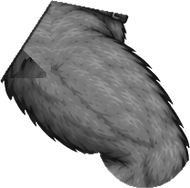
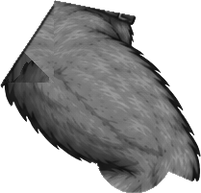
Beta: neue Figur – ganzes Bein je Stellung, Übungen korrigiert (#65)
* Beta: Pausen-Bildschirm im Gym mit Zielpause pro Übung

- Nach jedem Satz grosser Pausen-Bildschirm: Pausenzeit mit Ring bis zur
  empfohlenen Pause (Standard 2 min), danach grün „Bereit“ und kurze
  Vibration; darunter was als Nächstes kommt (Übung, Satz, eben/letztes
  Mal) und ein grosser Knopf
- Zielpause mit −15/+15 s pro Übung einstellbar, im Konto gespeichert
- Supersatz: zwischen A und B kein Pausen-Bildschirm, in der Leiste Satz
  und Vorschlag; nach der Runde Pause mit der ganzen nächsten Runde,
  Zielpause = längste der Gruppe
- Wegwischen/Zurück blendet aus, Pausenuhr in der Leiste antippen holt ihn
  zurück; „Übung wechseln“ führt zur Übungsauswahl

Claude-Session: https://claude.ai/code/session_01RzgDZiCUCCWMjrRSUqxzer

* Haupt-App: Supersätze und Pausen-Bildschirm aus der Beta übernehmen

Übernahme mit tools/promote-beta.sh (Supersätze in Plan und Freestyle,
Pausen-Bildschirm mit Zielpause pro Übung).

Claude-Session: https://claude.ai/code/session_01RzgDZiCUCCWMjrRSUqxzer

* Beta: neue Faultier-Figur (v2) hinter Schalter im Konto (Zwischenstand)

Teile aus ganzen Zeichnungen geschnitten (tools/sloth-rig/build_v2.py),
Standard bleibt die klassische Figur. Seitenansicht: Rumpf wartet noch
auf eine Zeichnung ohne Arm vor der Brust.

Claude-Session: https://claude.ai/code/session_01RzgDZiCUCCWMjrRSUqxzer

* Beta: Seitenansicht der neuen Figur mit eigenem Rumpf ohne Arme

Die Brust kommt jetzt aus side_torso.jpg (kein Arm davor), keine
[…]

diff --git a/beta/sloth-rig.js b/beta/sloth-rig.js
@@ -18,7 +18,7 @@ const slothPartHref = (im) => (im.startsWith('v2') ? SLOTH_RIG2_BASE : SLOTH_RIG
 const SLOTH_PARTS = {"front_head":[510,53,696,293],"front_torso":[456,248,745,582],"front_uarm_l":[296,251,478,388],"front_uarm_r":[723,251,904,388],"front_farm_l":[51,288,294,400],"front_farm_r":[907,288,1150,400],"front_thigh_l":[439,516,582,697],"front_thigh_r":[629,516,773,697],"front_tail":[566,584,643,725],"front_calf_l":[444,678,569,866],"front_calf_r":[643,679,768,866],"back_head":[510,53,696,293],"back_torso":[455,247,745,622],"back_uarm_l":[300,251,478,388],"back_uarm_r":[723,251,900,388],"back_farm_l":[163,288,294,396],"back_farm_r":[906,288,1039,396],"back_elbow_l":[267,315,319,367],"back_elbow_r":[881,314,934,367],"back_grip_l":[195,606,314,813],"back_grip_r":[899,606,1018,813],"back_thigh_l":[439,567,571,697],"back_thigh_r":[641,562,773,697],"back_tail":[566,619,643,741],"back_calf_l":[444,678,569,866],"back_calf_r":[643,678,768,866],"pose_russian_a":[209,33,499,221],"pose_russian_b":[679,29,968,221],"pose_ninety":[339,246,498,434],"pose_frog_a":[252,454,543,618],"pose_frog_b":[697,485,1018,614],"pose_extrot_a":[405,634,537,875],"pose_extrot_b":[633,634,817,876],"eq_plate":[570,40,688,159],"eq_kettlebell":[870,40,962,159],"eq_dumbbell":[184,51,365,151],"eq_dhandle":[178,193,273,328],"eq_rope":[515,183,622,331],"eq_ring":[866,182,955,336],"eq_barend":[66,379,285,434],"eq_bench":[326,418,558,499],"eq_incline":[604,353,821,499],"eq_decline":[887,404,1118,499],"eq_cable":[92,506,252,840],"eq_dipstation":[436,631,630,840],"eq_rack":[890,553,1108,840],"eq_latpull":[68,33,226,248],"eq_legpress":[312,68,575,239],"eq_legext":[657,67,851,241],"eq_legcurl":[917,67,1143,241],"eq_butterfly":[69,324,232,543],"eq_abduction":[362,329,510,543],"eq_calfseated":[657,417,844,543],"eq_calfstanding":[931,326,1134,541],"eq_hyperext":[71,688,280,839],"eq_pullover":[465,604,649,840],"eq_tbar":[877,653,1112,840],"eq_abwheel":[181,58,443,250],"eq_jumprope":[776,42,989,261],"eq_ladder":[93,361,534,514],"eq_stepbox":[748,354,1035,538],"eq_band":[93,682,531,759],"eq_mat":[627,666,1152,759],"eq_stack":[303,516,390,652],"eq_calfframe":[499,491,711,666],"eq_calfpad":[807,531,920,627],"eq_dipbars":[292,735,461,819],"eq_nordic":[535,711,724,819],"eq_abductseat":[1008,654,1141,819],"eq_edge":[818,753,954,823],"front_face_neutral":[106,22,253,213],"front_face_effort":[106,22,251,213],"front_face_blink":[106,22,253,213],"front_face_yawn":[106,22,253,213],"side_face_neutral":[104,40,335,317],"side_face_effort":[103,40,334,317],"side_face_blink":[104,40,332,317],"side_torso":[458,53,699,568],"side_body":[458,220,692,568],"side_tail":[372,453,473,535],"side_uarm":[791,80,910,268],"side_uarm_far":[791,80,910,268],"side_elbow":[811,261,857,307],"side_elbow_far":[811,261,857,307],"side_farm":[770,320,959,400],"side_farm_far":[770,320,959,400],"side_hand":[990,449,1166,539],"side_hand_far":[990,449,1166,539],"side_thigh":[629,516,773,687],"side_thigh_far":[629,516,773,687],"side_knee":[721,652,768,700],"side_knee_far":[721,652,768,700],"side_calf":[1020,689,1180,854],"side_calf_far":[1020,689,1180,854],"side_shin":[1020,689,1122,793],"side_shin_far":[1020,689,1122,793],"side_fist":[59,109,404,284],"side_fist_far":[59,109,404,284],"side_foot":[152,622,370,804],"side_foot_far":[152,622,370,804],"side_flat":[624,706,893,825],"side_flat_far":[624,706,893,825]};
 /* PARTS:END */
 /* V2:BEGIN */
-const SLOTH_V2 = {"parts":{"v2front_torso":[149,183,351,481],"v2front_head":[173,15,331,198],"v2front_uarm_l":[86,206,200,366],"v2front_farm_l":[12,322,139,516],"v2front_farmfist_l":[16,322,138,468],"v2front_thigh_l":[142,400,251,584],"v2front_calf_l":[80,546,224,758],"v2front_uarm_r":[300,206,418,364],"v2front_farm_r":[365,322,497,516],"v2front_farmfist_r":[370,322,494,468],"v2front_thigh_r":[252,400,365,584],"v2front_calf_r":[284,546,428,758],"v2back_torso":[149,182,351,466],"v2back_head":[174,12,338,201],"v2back_uarm_l":[79,204,201,371],"v2back_farm_l":[30,326,142,440],"v2back_grip_l":[12,412,86,518],"v2back_thigh_l":[143,398,252,586],"v2back_calf_l":[78,546,224,753],"v2back_uarm_r":[300,204,429,367],"v2back_farm_r":[370,326,478,438],"v2back_grip_r":[426,412,499,518],"v2back_thigh_r":[250,397,370,585],"v2back_calf_r":[285,546,430,753],"v2hang_torso":[164,216,346,464],"v2hang_head":[196,120,317,263],"v2hang_uarm_l":[126,136,213,334],"v2hang_farm_l":[122,50,192,164],"v2hang_grip_l":[120,13,198,74],"v2hang_thigh_l":[152,400,261,581],"v2hang_calf_l":[136,540,235,754],"v2hang_uarm_r":[297,136,387,348],"v2hang_farm_r":[321,52,391,164],"v2hang_grip_r":[316,13,392,74],"v2hang_thigh_r":[250,400,360,582],"v2hang_calf_r":[277,540,376,754],"v2sit_torso":[153,184,361,403],"v2sit_head":[176,22,337,196],"v2sit_uarm_l":[78,215,181,389],"v2sit_farm_l":[49,352,150,539],"v2sit_thigh_l":[136,377,258,491],"v2sit_calf_l":[100,453,244,750],"v2sit_uarm_r":[330,216,435,389],"v2sit_farm_r":[362,352,464,539],"v2sit_thigh_r":[254,377,376,489],"v2sit_calf_r":[268,453,412,750],"v2side_torso":[30,238,263,592],"v2side_face":[92,11,254,191],"v2side_uarm":[157,180,325,270],"v2side_farm":[296,184,442,266],"v2side_hand":[422,190,496,238],"v2side_fist":[296,184,496,266],"v2side_flat":[422,190,496,238],"v2side_uarm_far":[157,180,325,270],"v2side_farm_far":[296,184,442,266],"v2side_hand_far":[422,190,496,238],"v2side_fist_far":[296,184,496,266],"v2side_flat_far":[422,190,496,238],"v2side_thigh":[84,498,226,712],"v2side_thigh_far":[84,498,226,712],"v2side_calf":[81,672,276,906],"v2side_calf_far":[81,672,276,906],"v2side_shin":[81,672,208,903],"v2side_shin_far":[81,672,208,903],"v2side_foot":[127,815,275,905],"v2side_foot_far":[127,815,275,905],"v2side_thighA":[394,534,584,722],"v2side_thighA_far":[394,534,584,722],"v2side_thighB":[691,567,927,732],"v2side_thighB_far":[691,567,927,732],"v2side_thighC":[1023,609,1308,753],"v2side_thighC_far":[1023,609,1308,753]},"joints":{"front":{"torso":[[250.0,445.0],[250.0,185.0]],"head":[[250.0,185.0],[250.0,20.0]],"farm_l":[[102.5,345.0],[40.0,495.0]],"uarm_l":[[165.0,240.0],[102.5,345.0]],"thigh_l":[[210.0,445.0],[180.0,575.0]],"calf_l":[[180.0,575.0],[155.0,695.0]],"farm_r":[[397.5,345.0],[462.5,495.0]],"uarm_r":[[335.0,240.0],[397.5,345.0]],"thigh_r":[[290.0,445.0],[320.0,575.0]],"calf_r":[[320.0,575.0],[345.0,695.0]]},"back":{"torso":[[250.0,445.0],[250.0,190.0]],"head":[[250.0,190.0],[250.0,15.0]],"grip_l":[[57.5,430.0],[42.5,500.0]],"farm_l":[[102.5,350.0],[57.5,430.0]],"uarm_l":[[165.0,240.0],[102.5,350.0]],"thigh_l":[[210.0,445.0],[180.0,575.0]],"calf_l":[[180.0,575.0],[155.0,695.0]],"grip_r":[[445.0,430.0],[465.0,500.0]],"farm_r":[[400.0,350.0],[445.0,430.0]],"uarm_r":[[335.0,240.0],[400.0,350.0]],"thigh_r":[[290.0,445.0],[325.0,575.0]],"calf_r":[[325.0,575.0],[350.0,695.0]]},"hang":{"torso":[[255.0,465.0],[255.0,235.0]],"head":[[255.0,235.0],[255.0,120.0]],"grip_l":[[152.5,55.0],[157.5,25.0]],"farm_l":[[150.0,140.0],[152.5,55.0]],"uarm_l":[[177.5,255.0],[150.0,140.0]],"thigh_l":[[222.5,465.0],[187.5,570.0]],"calf_l":[[187.5,570.0],[172.5,700.0]],"grip_r":[[355.0,55.0],[352.5,25.0]],"farm_r":[[357.5,140.0],[355.0,55.0]],"uarm_r":[[332.5,255.0],[357.5,140.0]],"thigh_r":[[287.5,465.0],[322.5,570.0]],"calf_r":[[322.5,570.0],[340.0,700.0]]},"sit":{"torso":[[255.0,415.0],[255.0,190.0]],"head":[[255.0,190.0],[255.0,25.0]],"farm_l":[[105.0,375.0],[75.0,525.0]],"uarm_l":[[145.0,257.5],[105.0,375.0]],"thigh_l":[[190.0,415.0],[192.5,482.5]],"calf_l":[[192.5,482.5],[169.0,660.0]],"farm_r":[[405.0,375.0],[435.0,525.0]],"uarm_r":[[365.0,257.5],[405.0,375.0]],"thigh_r":[[320.0,415.0],[320.0,482.5]],"calf_r":[[320.0,482.5],[340.0,660.0]]},"side":{"torso":[[159.2,546.0],[163.8,327.6]],"face":[[200.0,170.0],[165.0,30.0]],"flex":{"thigh":8.3,"thighA":54.6,"thighB":88.5,"thighC":111.2},"thighA":[[441.4,591.5],[538.7,675.2]],"thighB":[[728.0,637.0],[873.6,684.3]],"thighC":[[1078.4,678.0],[1269.5,680.7]],"uarm":[[200.0,222.5],[320.0,225.0]],"farm":[[320.0,225.0],[440.0,212.5]],"fist":[[320.0,225.0],[440.0,212.5]],"hand":[[440.0,212.5],[492.5,215.0]],"flat":[[440.0,212.5],[492.5,215.0]],"thigh":[[159.2,559.6],[177.5,705.2]],"calf":[[177.5,705.2],[159.2,841.8]],"shin":[[177.5,705.2],[159.2,841.8]],"foot":[[159.2,841.8],[245.7,887.2]]}},"anchors":{"front":{"neck":[250.0,185.0],"sh_l":[165.0,240.0],"sh_r":[335.0,240.0],"hip_l":[210.0,445.0],"hip_r":[290.0,445.0],"tail":[250.0,445.0]},"back":{"neck":[250.0,190.0],"sh_l":[165.0,240.0],"sh_r":[335.0,240.0],"hip_l":[210.0,445.0],"hip_r":[290.0,445.0],"tail":[250.0,445.0]},"hang":{"neck":[255.0,235.0],"sh_l":[177.5,255.0],"sh_r":[332.5,255.0],"hip_l":[222.5,465.0],"hip_r":[287.5,465.0],"tail":[255.0,465.0]},"sit":{"neck":[255.0,190.0],"sh_l":[145.0,257.5],"sh_r":[365.0,257.5],"hip_l":[190.0,415.0],"hip_r":[320.0,415.0],"tail":[255.0,415.0]},"side":{"shoulder":[163.8,327.6],"hip":[159.2,546.0],"tail":[54.6,591.5],"face":[186.6,265.7]}}};
+const SLOTH_V2 = {"parts":{"v2front_torso":[149,183,351,481],"v2front_head":[173,15,331,198],"v2front_uarm_l":[86,206,200,366],"v2front_farm_l":[12,322,139,516],"v2front_farmfist_l":[16,322,138,468],"v2front_thigh_l":[142,400,251,584],"v2front_calf_l":[80,546,224,758],"v2front_uarm_r":[300,206,418,364],"v2front_farm_r":[365,322,497,516],"v2front_farmfist_r":[370,322,494,468],"v2front_thigh_r":[252,400,365,584],"v2front_calf_r":[284,546,428,758],"v2back_torso":[149,182,351,466],"v2back_head":[174,12,338,201],"v2back_uarm_l":[79,204,201,371],"v2back_farm_l":[30,326,142,440],"v2back_grip_l":[12,412,86,518],"v2back_thigh_l":[143,398,252,586],"v2back_calf_l":[78,546,224,753],"v2back_uarm_r":[300,204,429,367],"v2back_farm_r":[370,326,478,438],"v2back_grip_r":[426,412,499,518],"v2back_thigh_r":[250,397,370,585],"v2back_calf_r":[285,546,430,753],"v2hang_torso":[164,216,346,464],"v2hang_head":[196,120,317,263],"v2hang_uarm_l":[126,136,213,334],"v2hang_farm_l":[122,50,192,164],"v2hang_grip_l":[120,13,198,74],"v2hang_thigh_l":[152,400,261,581],"v2hang_calf_l":[136,540,235,754],"v2hang_uarm_r":[297,136,387,348],"v2hang_farm_r":[321,52,391,164],"v2hang_grip_r":[316,13,392,74],"v2hang_thigh_r":[250,400,360,582],"v2hang_calf_r":[277,540,376,754],"v2sit_torso":[153,184,361,403],"v2sit_head":[176,22,337,196],"v2sit_uarm_l":[78,215,181,389],"v2sit_farm_l":[49,352,150,539],"v2sit_thigh_l":[136,377,258,491],"v2sit_calf_l":[100,453,244,750],"v2sit_uarm_r":[330,216,435,389],"v2sit_farm_r":[362,352,464,539],"v2sit_thigh_r":[254,377,376,489],"v2sit_calf_r":[268,453,412,750],"v2side_torso":[30,238,263,592],"v2side_face":[92,11,254,191],"v2side_uarm":[157,180,325,270],"v2side_farm":[296,184,442,266],"v2side_hand":[422,190,496,238],"v2side_fist":[296,184,496,266],"v2side_flat":[422,190,496,238],"v2side_uarm_far":[157,180,325,270],"v2side_farm_far":[296,184,442,266],"v2side_hand_far":[422,190,496,238],"v2side_fist_far":[296,184,496,266],"v2side_flat_far":[422,190,496,238],"v2side_thigh":[84,497,226,704],"v2side_thigh_far":[84,497,226,704],"v2side_calf":[82,678,279,915],"v2side_calf_far":[82,678,279,915],"v2side_shin":[82,678,212,913],"v2side_shin_far":[82,678,212,913],"v2side_foot":[125,825,279,915],"v2side_foot_far":[125,825,279,915],"v2side_thighA":[416,565,617,758],"v2side_thighA_far":[416,565,617,758],"v2side_calfA":[365,600,534,831],"v2side_calfA_far":[365,600,534,831],"v2side_thighB":[772,633,1035,811],"v2side_thighB_far":[772,633,1035,811],"v2side_calfB":[680,624,863,852],"v2side_calfB_far":[680,624,863,852],"v2side_thighC":[1155,687,1477,848],"v2side_thighC_far":[1155,687,1477,848],"v2side_calfC":[915,561,1099,767],"v2side_calfC_far":[915,561,1099,767]},"joints":{"front":{"torso":[[250.0,445.0],[250.0,185.0]],"head":[[250.0,185.0],[250.0,20.0]],"farm_l":[[102.5,345.0],[40.0,495.0]],"uarm_l":[[165.0,240.0],[102.5,345.0]],"thigh_l":[[210.0,445.0],[180.0,575.0]],"calf_l":[[180.0,575.0],[155.0,695.0]],"farm_r":[[397.5,345.0],[462.5,495.0]],"uarm_r":[[335.0,240.0],[397.5,345.0]],"thigh_r":[[290.0,445.0],[320.0,575.0]],"calf_r":[[320.0,575.0],[345.0,695.0]]},"back":{"torso":[[250.0,445.0],[250.0,190.0]],"head":[[250.0,190.0],[250.0,15.0]],"grip_l":[[57.5,430.0],[42.5,500.0]],"farm_l":[[102.5,350.0],[57.5,430.0]],"uarm_l":[[165.0,240.0],[102.5,350.0]],"thigh_l":[[210.0,445.0],[180.0,575.0]],"calf_l":[[180.0,575.0],[155.0,695.0]],"grip_r":[[445.0,430.0],[465.0,500.0]],"farm_r":[[400.0,350.0],[445.0,430.0]],"uarm_r":[[335.0,240.0],[400.0,350.0]],"thigh_r":[[290.0,445.0],[325.0,575.0]],"calf_r":[[325.0,575.0],[350.0,695.0]]},"hang":{"torso":[[255.0,465.0],[255.0,235.0]],"head":[[255.0,235.0],[255.0,120.0]],"grip_l":[[152.5,55.0],[157.5,25.0]],"farm_l":[[150.0,140.0],[152.5,55.0]],"uarm_l":[[177.5,255.0],[150.0,140.0]],"thigh_l":[[222.5,465.0],[187.5,570.0]],"calf_l":[[187.5,570.0],[172.5,700.0]],"grip_r":[[355.0,55.0],[352.5,25.0]],"farm_r":[[357.5,140.0],[355.0,55.0]],"uarm_r":[[332.5,255.0],[357.5,140.0]],"thigh_r":[[287.5,465.0],[322.5,570.0]],"calf_r":[[322.5,570.0],[340.0,700.0]]},"sit":{"torso":[[255.0,415.0],[255.0,190.0]],"head":[[255.0,190.0],[255.0,25.0]],"farm_l":[[105.0,375.0],[75.0,525.0]],"uarm_l":[[145.0,257.5],[105.0,375.0]],"thigh_l":[[190.0,415.0],[192.5,482.5]],"calf_l":[[192.5,482.5],[169.0,660.0]],"farm_r":[[405.0,375.0],[435.0,525.0]],"uarm_r":[[365.0,257.5],[405.0,375.0]],"thigh_r":[[320.0,415.0],[320.0,482.5]],"calf_r":[[320.0,482.5],[340.0,660.0]]},"side":{"torso":[[159.2,546.0],[163.8,327.6]],"face":[[200.0,170.0],[165.0,30.0]],"flex":{"thigh":8.5,"thighA":48.7,"thighB":82.1,"thighC":105.0},"kneeBend":{"thigh":14.7,"thighA":66.5,"thighB":93.6,"thighC":118.7},"thighA":[[452.0,615.5],[550.1,719.4]],"calfA":[[478.7,626.1],[422.7,757.5]],"thighB":[[823.5,711.7],[953.6,770.6]],"calfB":[[805.3,650.8],[738.3,777.0]],"thighC":[[1265.9,758.3],[1407.7,775.8]],"calfC":[[1059.0,583.6],[975.5,699.5]],"uarm":[[200.0,222.5],[320.0,225.0]],"farm":[[320.0,225.0],[440.0,212.5]],"fist":[[320.0,225.0],[440.0,212.5]],"hand":[[440.0,212.5],[492.5,215.0]],"flat":[[440.0,212.5],[492.5,215.0]],"thigh":[[154.4,555.9],[172.6,697.6]],"calf":[[174.8,706.6],[156.4,848.2]],"shin":[[174.8,706.6],[156.4,848.2]],"foot":[[156.4,848.2],[248.4,894.2]]}},"anchors":{"front":{"neck":[250.0,185.0],"sh_l":[165.0,240.0],"sh_r":[335.0,240.0],"hip_l":[210.0,445.0],"hip_r":[290.0,445.0],"tail":[250.0,445.0]},"back":{"neck":[250.0,190.0],"sh_l":[165.0,240.0],"sh_r":[335.0,240.0],"hip_l":[210.0,445.0],"hip_r":[290.0,445.0],"tail":[250.0,445.0]},"hang":{"neck":[255.0,235.0],"sh_l":[177.5,255.0],"sh_r":[332.5,255.0],"hip_l":[222.5,465.0],"hip_r":[287.5,465.0],"tail":[255.0,465.0]},"sit":{"neck":[255.0,190.0],"sh_l":[145.0,257.5],"sh_r":[365.0,257.5],"hip_l":[190.0,415.0],"hip_r":[320.0,415.0],"tail":[255.0,415.0]},"side":{"shoulder":[163.8,327.6],"hip":[159.2,546.0],"tail":[54.6,591.5],"face":[186.6,265.7]}}};
 /* V2:END */
 
 // Gelenkpunkte in Vorlagen-Koordinaten (1200 x 896): [nah, fern]
@@ -248,7 +248,7 @@ const SLOTH_POSES = {
     b: { torso: -96, uarm: 96, farm: 92, thigh: 84, calf: 92, dy: -26 },
   },
   wallsit: {
-    view: 'side', pin: 'ankle', dur: 3.6, floor: 46, wall: { x: -300 }, label: 'Wall Sit',
+    view: 'side', pin: 'ankle', dur: 3.6, floor: 46, wall: { x: -300 }, drawnKnee: false, label: 'Wall Sit', // Schienbein bleibt senkrecht
     a: { torso: -90, uarm: 94, farm: 20, thigh: 2, calf: 92 },
     b: { torso: -90, uarm: 94, farm: 22, thigh: 2, calf: 92 },
   },
@@ -259,7 +259,8 @@ const SLOTH_POSES = {
   },
   wgs: {
     view: 'side', pin: 'ankle', dur: 3.2, floor: 46, grip: 'flat', label: 'Grösste Dehnung der Welt',
-    a: { torso: -26, uarm: 100, farm: 130, hand: 0, fuarm: 96, ffarm: 92, fhand: 0, thigh: 12, calf: 96, fthigh: 160, fcalf: 166 },
+    // Stützarm gerade nach unten neben den vorderen Fuss (Ellbogen nicht nach hinten durchgebogen)
+    a: { torso: -26, uarm: 88, farm: 84, hand: 0, fuarm: 96, ffarm: 92, fhand: 0, thigh: 12, calf: 96, fthigh: 160, fcalf: 166 },
     b: { torso: -26, uarm: -92, farm: -92, hand: -92, fuarm: 96, ffarm: 92, fhand: 0, thigh: 12, calf: 96, fthigh: 160, fcalf: 166 },
   },
   thoracic: {
@@ -311,10 +312,11 @@ const SLOTH_POSES = {
     b: { torso: -96, uarm: 100, farm: 60, fuarm: 100, ffarm: 60, thigh: 88, calf: 94, fthigh: 110, fcalf: 170, dy: -60 },
   },
   bounds: {
-    view: 'front', pin: 'feet', dur: 1.4, floor: 26, armLift: 45, relLegs: true, label: 'Seitsprünge',
-    // Arme mit gebeugten Ellbogen: gestreckt würden sie durch die Waagrechte schwingen und die Figur sehr breit machen
-    a: { torso: -80, head: -84, uarm_l: 125, farm_l: 60, uarm_r: 55, farm_r: 120, thigh_l: 104, calf_l: 94, thigh_r: 120, calf_r: 150, tail: 0 },
-    b: { torso: -100, head: -96, uarm_l: 165, farm_l: 250, uarm_r: 15, farm_r: -70, thigh_l: 60, calf_l: 30, thigh_r: 76, calf_r: 86, tail: 0 },
+    view: 'front', pin: 'feet', dur: 1.4, floor: 26, armLift: 45, label: 'Seitsprünge',
+    // Skater: seitlich von Bein zu Bein springen. Landung auf einem gebeugten Bein, das andere kreuzt schräg
+    // hinter dem Standbein, die Arme schwingen gegengleich zur Seite des Standbeins.
+    a: { torso: -96, head: -92, uarm_l: 96, farm_l: 100, uarm_r: 130, farm_r: 150, thigh_l: 100, calf_l: 86, thigh_r: 104, len_thigh_r: 0.8, calf_r: 112, len_calf_r: 0.85, dx: -70, tail: 0 },
+    b: { torso: -84, head: -88, uarm_l: 50, farm_l: 30, uarm_r: 84, farm_r: 80, thigh_r: 80, calf_r: 94, thigh_l: 76, len_thigh_l: 0.8, calf_l: 68, len_calf_l: 0.85, dx: 70, tail: 0 },
   },
   sprint: {
     view: 'side', pin: 'hip', dur: 0.6, floor: 205, label: 'Sprint',
@@ -338,8 +340,9 @@ const SLOTH_POSES = {
   },
   lateralLunge: {
     view: 'front', pin: 'feet', dur: 3, floor: 26, armLift: 45, label: 'Seitlicher Ausfallschritt',
-    a: { torso: -90, head: -90, uarm_l: 70, farm_l: 30, uarm_r: 110, farm_r: 150, thigh_l: 140, calf_l: 96, thigh_r: 50, calf_r: 52, tail: 0 },
-    b: { torso: -90, head: -90, uarm_l: 70, farm_l: 30, uarm_r: 110, farm_r: 150, thigh_l: 128, calf_l: 128, thigh_r: 40, calf_r: 84, tail: 0 },
+    // Arme hängen locker (Hände nicht an der Hüfte verdreht)
+    a: { torso: -90, head: -90, uarm_l: 104, farm_l: 98, uarm_r: 76, farm_r: 82, thigh_l: 140, calf_l: 96, thigh_r: 50, calf_r: 52, tail: 0 },
+    b: { torso: -90, head: -90, uarm_l: 108, farm_l: 100, uarm_r: 72, farm_r: 80, thigh_l: 128, calf_l: 128, thigh_r: 40, calf_r: 84, tail: 0 },
   },
   quadstretch: {
     view: 'side', pin: 'fankle', dur: 3.6, floor: 46, drawLast: ['calf', 'knee', 'farm', 'hand'], label: 'Oberschenkel-Dehnung',
@@ -698,7 +701,7 @@ const SLOTH_POSES = {
   },
   jumprope: {
     view: 'side', pin: 'ankle', dur: 0.6, floor: 46, grip: 'fist', label: 'Seilspringen',
-    props: [{ img: 'jumprope', at: 'grip', a: [882, 150], k: 2.6, layer: 'mid' }],
+    rope: true, // Seil als kreisende Linie um die Figur (siehe slothRigPrepare)
     a: { torso: -94, uarm: 100, farm: 20, thigh: 86, calf: 92, dy: 0 },
     b: { torso: -94, uarm: 100, farm: 30, thigh: 80, calf: 96, dy: -40 },
   },
@@ -922,22 +925,33 @@ function slothRigBuild(pose, v2 = false) {
         q.calf_far = place('calf', th.end, Math.atan2(cv[1], cv[0]) * 180 / Math.PI + (pose.farFoot[2] || 0), 'side_calf_far');
       }
     }
-    // v2: Gesäss + Oberschenkel gibt es gezeichnet stehend und in drei Beugungen (ein Blatt, gleiche Zeichnung).
-    // Je nach Hüftbeugung (Winkel Rumpf -> Oberschenkel) wird zur passenden Zeichnung übergeblendet, statt nur zu drehen.
-    if (sameLegs) for (const k of ['thigh_far', 'knee_far', 'calf_far', 'foot_far']) if (q[k]) q[k] = { skip: true, P: q[k].P, end: q[k].end };
+    // v2: das ganze Bein (Gesäss/Oberschenkel, Unterschenkel mit Fuss) gibt es gezeichnet stehend und in drei
+    // Beugungen aus einem Blatt. Je nach Hüftbeugung (Winkel Rumpf -> Oberschenkel) wird die passende Zeichnung
+    // gezeigt – hart umgeschaltet, damit nie zwei Beine durchscheinen. Alle Stellungen haben dieselben Längen.
     if (v2 && J.flex) for (const x of ['', '_far']) {
       const th = q['thigh' + x];
       if (!th || th.skip) continue;
       const [b0, b1] = J.thigh, deg = th.r + Math.atan2(b1[1] - b0[1], b1[0] - b0[0]) * 180 / Math.PI;
       const f = ((s.torso + 180 - deg) % 360 + 540) % 360 - 180, F = J.flex;
-      const ramp = (lo, hi) => { const u = Math.min(1, Math.max(0, (f - lo) / (hi - lo))); return u * u * (3 - 2 * u); };
-      // kurzer Übergang (±5°) in der Mitte zwischen zwei Zeichnungen; darunterliegende ausblenden, sobald die nächste deckt
       const ks = Object.keys(F).sort((m, n) => F[m] - F[n]);
-      const op = ks.map((k, i) => (i === 0 ? 1 : ramp((F[ks[i - 1]] + F[k]) / 2 - 5, (F[ks[i - 1]] + F[k]) / 2 + 5)));
+      let cur = 0;
+      ks.forEach((k, i) => { if (i && f > (F[ks[i - 1]] + F[k]) / 2) cur = i; });
+      // Füsse am Boden (fester Knöchel): Knie beugt so stark wie in den Zeichnungen (stetig nach Hüftbeugung) –
+      // so bleibt der Fuss flach und die Bewegung sieht aus wie gezeichnet
+      const planted = (x === '' && pose.pin === 'ankle') || (x === '_far' && pose.pin === 'fankle');
+      if (planted && !pose.feet && pose.drawnKnee !== false && J.kneeBend) {
+        const kbv = ks.map((k) => J.kneeBend[k]), fv = ks.map((k) => F[k]);
+        let rel = kbv[0];
+        for (let i = 1; i < ks.length; i++) if (f >= fv[i - 1]) rel = kbv[i - 1] + (kbv[i] - kbv[i - 1]) * Math.min(1, (f - fv[i - 1]) / (fv[i] - fv[i - 1]));
+        if (f < fv[0]) rel = kbv[0] * Math.max(0, f / fv[0]);
+        q['calf' + x] = place('calf', th.end, deg + rel, 'side_calf' + x);
+      }
+      const ca = q['calf' + x], cDeg = ca && !ca.skip ? ca.r + a0('calf') : null;
       ks.forEach((k, i) => {
-        const o = op[i + 1] >= 1 ? 0 : op[i];
-        if (k === 'thigh') th.o = o;
-        else q[k + x] = { ...place(k, th.P, deg, 'side_' + k + x), o };
+        const o = i === cur ? 1 : 0, sfx = k.slice(5); // '' | 'A' | 'B' | 'C'
+        if (!sfx) { th.o = o; if (!pose.feet && ca && !ca.skip) ca.o = o; return; }
+        q[k + x] = { ...place(k, th.P, deg, 'side_' + k + x), o };
+        if (!pose.feet && cDeg != null) q['calf' + sfx + x] = { ...place('calf' + sfx, th.end, cDeg, 'side_calf' + sfx + x), o };
       });
     }
     for (const k of pose.mirror || []) q[k].k = [q[k].k, -q[k].k]; // Teil an der Knochenachse spiegeln
@@ -969,7 +983,7 @@ function slothRigBuild(pose, v2 = false) {
         q['grip_' + x] = shorten(place('grip_' + x, q['farm_' + x].end, arm(gk), undefined, 1, alt), s['len_grip_' + x] != null ? 'grip_' + x : 'farm_' + x);
       }
       q['thigh_' + x] = shorten(place('thigh_' + x, t.map(A['hip_' + x]), leg('thigh_' + x)), 'thigh_' + x);
-      q['calf_' + x] = place('calf_' + x, q['thigh_' + x].end, leg('calf_' + x));
+      q['calf_' + x] = shorten(place('calf_' + x, q['thigh_' + x].end, leg('calf_' + x)), 'calf_' + x);
       if (view === 'back') q['elbow_' + x] = ball('back_elbow_' + x, q['uarm_' + x].end);
     }
     // join: { arm, to, bend } — dieser Arm greift per Zweigelenk-IK an einen Punkt des anderen Arms
@@ -1125,7 +1139,7 @@ function slothRigPrepare(poseName) {
   let base = SLOTH_ORDER[pose.view];
   // gebeugte Oberschenkel-Zeichnungen direkt über dem stehenden Oberschenkel
   const flexKeys = Object.keys(SLOTH_V2.joints.side.flex || {}).filter((k) => k !== 'thigh').sort((m, n) => SLOTH_V2.joints.side.flex[m] - SLOTH_V2.joints.side.flex[n]);
-  base = base.flatMap((k) => { const m = /^thigh(_far)?$/.exec(k); return m && pose.view === 'side' ? [k, ...flexKeys.map((f) => f + (m[1] || ''))] : [k]; });
+  base = base.flatMap((k) => { const m = /^(thigh|calf)(_far)?$/.exec(k); return m && pose.view === 'side' ? [k, ...flexKeys.map((f) => m[1] + f.slice(5) + (m[2] || ''))] : [k]; });
   if (pose.armsFront) { const arms = base.filter((k) => /arm/.test(k)); base = base.filter((k) => !/arm/.test(k)); base.splice(base.indexOf('torso') + 1, 0, ...arms); }
   // drawLast: Teile ganz nach vorne holen (z. B. gefalteter Unterschenkel vor dem eigenen Oberschenkel)
   if (pose.drawLast) { base = base.filter((k) => !pose.drawLast.includes(k)); base.push(...pose.drawLast); }
@@ -1204,6 +1218,12 @@ function slothRigPrepare(poseName) {
   const path = frames.map((f) => f.path).filter(Boolean);
   if (path.length && Math.hypot(...[0, 1].map((a) => Math.max(...path.map((p) => p[a])) - Math.min(...path.map((p) => p[a])))) > 60) {
     extra += `<polyline class="sloth-rig-path" points="${path.map((p) => `${n(p[0])},${n(p[1])}`).join(' ')}"/>`;
+  }
+  // Seilspringen: Seil als Ellipse um die Figur, nur ein Bogen sichtbar, der einmal pro Sprung herumläuft
+  if (pose.rope) {
+    const rx = box[2] * 0.4, ry = box[3] * 0.47, cx = box[0] + box[2] / 2, cy = box[1] + box[3] * 0.5;
+    style.textContent += `\n@keyframes srr-${name}{to{stroke-dashoffset:-100}}.sr-${name} .sloth-rig-rope{animation:srr-${name} ${pose.dur}s linear infinite;animation-delay:var(--srd,0s)}`;
+    extra += `<ellipse class="sloth-rig-rope" pathLength="100" stroke-dasharray="46 54" cx="${n(cx)}" cy="${n(cy)}" rx="${n(rx)}" ry="${n(ry)}"/>`;
   }
   if (pose.floor != null) extra += `<ellipse class="sloth-rig-shadow" cx="${n(box[0] + box[2] / 2)}" cy="${pose.floor}" rx="${n(box[2] * (pose.view === 'side' ? 0.46 : 0.34))}" ry="${n(Math.max(10, box[2] * 0.035))}"/>`;
   if (pose.bar) {

diff --git a/beta/styles.css b/beta/styles.css
@@ -1512,6 +1512,7 @@ body.has-fs-dock { padding-bottom: calc(62px + 210px + var(--safe-bottom)); }
 .sloth-rig { display: block; overflow: visible; }
 .sloth-rig-bar { fill: #3b4048; stroke: #0a0a0a; stroke-width: 5; }
 .sloth-rig-cable { fill: #6b7079; }
+.sloth-rig-rope { fill: none; stroke: #2b2f36; stroke-width: 7; stroke-linecap: round; }
 .sloth-rig-handle { fill: #2b2f36; }
 .sloth-rig .sp-far { filter: brightness(.6); }
 .sloth-rig-shadow { fill: #000; opacity: .45; }

diff --git a/beta/sw.js b/beta/sw.js
@@ -1,4 +1,4 @@
-const CACHE_NAME = 'pincho-beta-v70';
+const CACHE_NAME = 'pincho-beta-v71';
 const SHELL_ASSETS = [
   './', './index.html', './styles.css', './data.js', './firebase.js', './sloth-rig.js', './app.js',
   './manifest.json', '../assets/icon-512-any.png', '../assets/icon-192-any.png', '../assets/icon-512-transparent.png', '../assets/icon-512-maskable.png', '../assets/icon-beta-192-any.png', '../assets/icon-beta-512-maskable.png',

diff --git a/tools/sloth-rig/build_v2.py b/tools/sloth-rig/build_v2.py
@@ -199,10 +199,15 @@ def cut_view(view, cfg, parts, joints, anchors):
             save('fist' + far, M['farmR'] | M['handR'], 'elR', dark=dark)  # Unterarm + Hand in einem Teil (wie bisher 'fist')
             save('flat' + far, M['handR'], 'wrR', dark=dark)
         # Beine: stehend + gebeugte Oberschenkel aus der armlosen Serie, Beugewinkel der Zeichnungen merken
-        legJ, fl0 = side_stand(parts, SIDE_STAND)  # ganzes Bein aus der armlosen Serie (passt zum Rumpf)
+        legJ, fl0 = side_leg(parts, SIDE_STAND)  # ganzes Bein aus derselben Zeichnung wie der Rumpf
         jv['flex'] = {'thigh': round(fl0, 1)}
-        for k, c in SIDE_LEGS.items():
-            jv[k], fl = side_thigh(parts, k, c, c['scale'])
+        # Kniebeugung der Zeichnung je Stellung (Unterschenkel- minus Oberschenkelwinkel)
+        kb = lambda c: round(float(np.degrees(np.arctan2(c['an'][1] - c['kn'][1], c['an'][0] - c['kn'][0])
+                                          - np.arctan2(c['kn'][1] - c['hip'][1], c['kn'][0] - c['hip'][0]))), 1)
+        jv['kneeBend'] = {'thigh': kb(SIDE_STAND), **{k: kb(c) for k, c in SIDE_LEGS.items()}}
+        for k, c in SIDE_LEGS.items():  # gebeugte Stellungen: ganzes Bein (Oberschenkel + Unterschenkel mit Fuss)
+            lj, fl = side_leg(parts, c, k[-1])
+            jv.update(lj)
             jv['flex'][k] = round(fl, 1)
         jv.update(uarm=[sc(J['shR']), sc(J['elR'])], farm=[sc(J['elR']), sc(J['wrR'])], fist=[sc(J['elR']), sc(J['wrR'])],
                   hand=[sc(J['wrR']), sc(J['fiR'])], flat=[sc(J['wrR']), sc(J['fiR'])],
@@ -290,14 +295,14 @@ def side_torso(parts, key, cfg):
 # Beine aus side_squats.png. torso = (Hüfte, Schulter) der Figur für den Beugewinkel; belt = Unterkante Gürtel;
 # bag = Chalkbag (gehört zum Rumpf). Stehend: ganzes Bein (Oberschenkel, Unterschenkel, Fuss); gebeugt: nur Gesäss + Oberschenkel,
 # die Puppe blendet je nach Hüftwinkel zur nächsten Zeichnung über.
-SIDE_STAND = dict(src='side_squats.png', xr=SQX[0], scale=SQ, hip=(175, 615), kn=(195, 775), an=(175, 925), to=(270, 975), torso=((175, 600), (180, 360)),
+SIDE_STAND = dict(src='side_squats.png', xr=SQX[0], scale=SQ, hip=(170, 612), kn=(190, 768), an=(170, 922), to=(270, 972), torso=((175, 600), (180, 360)),
                   belt=((100, 532), (245, 575)), bag=[(22, 512), (112, 512), (112, 648), (22, 648)])
 SIDE_LEGS = {
-    'thighA': dict(src='side_squats.png', xr=SQX[1], scale=SQ, hip=(485, 650), kn=(592, 742), an=(512, 912), to=(620, 968), torso=((485, 640), (510, 370)),
+    'thighA': dict(src='side_squats.png', xr=SQX[1], scale=SQ, hip=(470, 640), kn=(572, 748), an=(505, 905), to=(620, 968), torso=((485, 640), (510, 370)),
                    belt=((445, 568), (608, 600)), bag=[(405, 552), (488, 552), (488, 672), (405, 672)]),
-    'thighB': dict(src='side_squats.png', xr=SQX[2], scale=SQ, hip=(800, 700), kn=(960, 752), an=(862, 912), to=(995, 970), torso=((800, 690), (880, 420)),
+    'thighB': dict(src='side_squats.png', xr=SQX[2], scale=SQ, hip=(810, 700), kn=(938, 758), an=(860, 905), to=(995, 970), torso=((800, 690), (880, 420)),
                    belt=((785, 612), (915, 655)), bag=[(702, 577), (785, 577), (785, 702), (702, 702)]),
-    'thighC': dict(src='side_squats.png', xr=SQX[3], scale=SQ, hip=(1185, 745), kn=(1395, 748), an=(1262, 912), to=(1400, 968), torso=((1185, 740), (1290, 480)),
+    'thighC': dict(src='side_squats.png', xr=SQX[3], scale=SQ, hip=(1232, 738), kn=(1370, 755), an=(1262, 905), to=(1400, 968), torso=((1185, 740), (1290, 480)),
                    belt=((1175, 660), (1325, 712)), bag=[(1078, 628), (1170, 628), (1170, 758), (1078, 758)]),
 }
 
@@ -333,8 +338,13 @@ def flex_of(torso, hip, kn):
     return float((ta + 180 - th + 180) % 360 - 180)
 
 
-def side_stand(parts, cfg):
-    """Stehendes Bein: thigh, calf (mit Fuss), shin, foot, je auch als _far (dunkler)."""
+LEG_T, LEG_C = 157, 157  # einheitliche Länge Hüfte->Knie und Knie->Knöchel (Blatt-Pixel der stehenden Figur)
+
+
+def side_leg(parts, cfg, sfx=''):
+    """Ganzes Bein einer Figur aus side_squats.png: thigh<sfx> (mit Gesäss), calf<sfx> (Unterschenkel + Fuss);
+    stehend zusätzlich shin/foot einzeln. Jedes Teil wird auf die einheitliche Länge gebracht, damit beim
+    Wechsel der Stellung nichts länger oder kürzer wird (die Figuren sind leicht unterschiedlich lang gezeichnet)."""
     A, G, fig, alpha = figure(cfg['src'], cfg.get('xr'))
     H, W = fig.shape
     yy, xx = np.mgrid[0:H, 0:W]
@@ -348,20 +358,23 @@ def side_stand(parts, cfg):
         a = np.array(a, float); b = np.array(b, float); d = b - a
         t = np.clip(((xx - a[0]) * d[0] + (yy - a[1]) * d[1]) / (d @ d), 0, 1)
         return np.hypot(xx - a[0] - t * d[0], yy - a[1] - t * d[1])
-    bones = {'thigh': ('hip', 'kn'), 'calf': ('kn', 'an'), 'foot': ('an', 'to'),}
-    names = list(bones)
-    own = np.argmin(np.stack([segd(cfg[a], cfg[b]) for a, b in bones.values()]), 0)
+    dth, dca, dfo = segd(cfg['hip'], cfg['kn']), segd(cfg['kn'], cfg['an']), segd(cfg['an'], cfg['to'])
     rest = fig & below & ~bag
-    M = {k: rest & (own == i) for i, k in enumerate(names)}
-    f = S * cfg['scale']
+    # gebeugt: das Knie gehört ganz zum Oberschenkel (liegt über dem Unterschenkel)
+    knee = (np.hypot(xx - cfg['kn'][0], yy - cfg['kn'][1]) < 38) & (dfo > 30) if sfx else np.zeros_like(fig)
+    Mth = rest & (((dth <= dca) & (dth <= dfo)) | knee)
+    Mca = rest & ~Mth & (dca <= dfo)
+    Mfo = rest & ~Mth & (dfo < dca)
+    lt = np.hypot(cfg['kn'][0] - cfg['hip'][0], cfg['kn'][1] - cfg['hip'][1])
+    lc = np.hypot(cfg['an'][0] - cfg['kn'][0], cfg['an'][1] - cfg['kn'][1])
 
-    def cut(key, mask, joint=None, r=0):
+    def cut(key, mask, f, joint=None, r=0):
         mask = ndi.binary_opening(mask, iterations=2)
         lb, nn = ndi.label(mask)
         if nn > 1:
             mask = lb == (np.argmax(ndi.sum(mask, lb, range(1, nn + 1))) + 1)
         g = G.copy(); a0 = alpha.copy()
-        if key == 'thigh':
+        if key.startswith('thigh'):
             mask = under_bag(mask, bag, fig, below, G, g, a0)
         if joint:  # Gelenkkappe mit eigenem Fell (liegt unter dem Elternteil)
             cap = (np.hypot(xx - cfg[joint][0], yy - cfg[joint][1]) < r) & ~mask & ndi.binary_erosion(fig, iterations=4)  # nie über den Umriss hinaus
@@ -378,53 +391,16 @@ def side_stand(parts, cfg):
             img.save(os.path.join(OUT, f'v2side_{key}{far}.png'), optimize=True)
             x0, y0 = round(bb[0] * f), round(bb[1] * f)
             parts[f'v2side_{key}{far}'] = [x0, y0, x0 + img.width, y0 + img.height]
-    cut('thigh', M['thigh'])
-    cut('calf', M['calf'] | M['foot'], 'kn', 36)
-    cut('shin', M['calf'], 'kn', 36)
-    cut('foot', M['foot'], 'an', 28)
-    sc = lambda q: [round(q[0] * f, 1), round(q[1] * f, 1)]
-    return {'thigh': [sc(cfg['hip']), sc(cfg['kn'])], 'calf': [sc(cfg['kn']), sc(cfg['an'])], 'shin': [sc(cfg['kn']), sc(cfg['an'])],
-            'foot': [sc(cfg['an']), sc(cfg['to'])]}, flex_of(cfg['torso'], cfg['hip'], cfg['kn'])
-
-
-def side_thigh(parts, key, cfg, scale):
-    A, G, fig, alpha = figure(cfg['src'], cfg.get('xr'))
-    H, W = fig.shape
-    yy, xx = np.mgrid[0:H, 0:W]
-    (bx0, by0), (bx1, by1) = cfg['belt']
-    below = yy > by0 + (xx - bx0) * (by1 - by0) / (bx1 - bx0) + 10  # ganz unter dem Gürtel, der Rumpf liegt darüber
-    im = Image.new('L', (W, H), 0)
-    ImageDraw.Draw(im).polygon(cfg['bag'], fill=1)
-    bag = np.asarray(im).astype(bool)
-
-    def segd(a, b):
-        a = np.array(a, float); b = np.array(b, float); d = b - a
-        t = np.clip(((xx - a[0]) * d[0] + (yy - a[1]) * d[1]) / (d @ d), 0, 1)
-        return np.hypot(xx - a[0] - t * d[0], yy - a[1] - t * d[1])
-    dth, dca, dfo = segd(cfg['hip'], cfg['kn']), segd(cfg['kn'], cfg['an']), segd(cfg['an'], cfg['to'])
-    # das gebeugte Knie dieser Zeichnung gehört ganz zum Oberschenkel (liegt über dem Unterschenkel)
-    knee = np.hypot(xx - cfg['kn'][0], yy - cfg['kn'][1]) < 50
-    mask = fig & below & ~bag & (((dth <= dca) & (dth <= dfo)) | (knee & (dfo > 38)))
-    mask = ndi.binary_opening(mask, iterations=2)
-    lb, nn = ndi.label(mask)
-    if nn > 1:
-        mask = lb == (np.argmax(ndi.sum(mask, lb, range(1, nn + 1))) + 1)
-    mask = mask | (ndi.binary_dilation(mask, iterations=2) & ndi.binary_erosion(fig, iterations=3) & ~bag & below)
-    G = G.copy(); alpha = alpha.copy()
-    mask = under_bag(mask, bag, fig, below, G.copy(), G, alpha)
-    a = ndi.gaussian_filter(mask.astype(float), 0.8) * np.where(mask, alpha, 0)
-    f = S * scale
-    out = {}
-    for far, dark in (('', 1.0), ('_far', FAR_DARK)):
-        img = Image.fromarray(np.dstack([np.clip(G * dark, 0, 255), np.clip(a * 255, 0, 255)]).astype(np.uint8), 'LA')
-        bb = img.getchannel('A').getbbox()
-        img = img.crop(bb)
-        img = img.resize((round(img.width * f), round(img.height * f)), Image.LANCZOS)
-        img.save(os.path.join(OUT, f'v2side_{key}{far}.png'), optimize=True)
-        x0, y0 = round(bb[0] * f), round(bb[1] * f)
-        parts[f'v2side_{key}{far}'] = [x0, y0, x0 + img.width, y0 + img.height]
-    sc = lambda q: [round(q[0] * f, 1), round(q[1] * f, 1)]
-    return [sc(cfg['hip']), sc(cfg['kn'])], flex_of(cfg['torso'], cfg['hip'], cfg['kn'])
+        return lambda q: [round(q[0] * f, 1), round(q[1] * f, 1)]
+    fT, fC = S * SQ * LEG_T / lt, S * SQ * LEG_C / lc
+    sT = cut('thigh' + sfx, Mth, fT)
+    sC = cut('calf' + sfx, Mca | Mfo, fC, 'kn', 30)
+    out = {'thigh' + sfx: [sT(cfg['hip']), sT(cfg['kn'])], 'calf' + sfx: [sC(cfg['kn']), sC(cfg['an'])]}
+    if not sfx:
+        sS = cut('shin', Mca, fC, 'kn', 30)
+        sF = cut('foot', Mfo, fC, 'an', 24)
+        out.update(shin=[sS(cfg['kn']), sS(cfg['an'])], foot=[sF(cfg['an']), sF(cfg['to'])])
+    return out, flex_of(cfg['torso'], cfg['hip'], cfg['kn'])
 
 
 def main():
